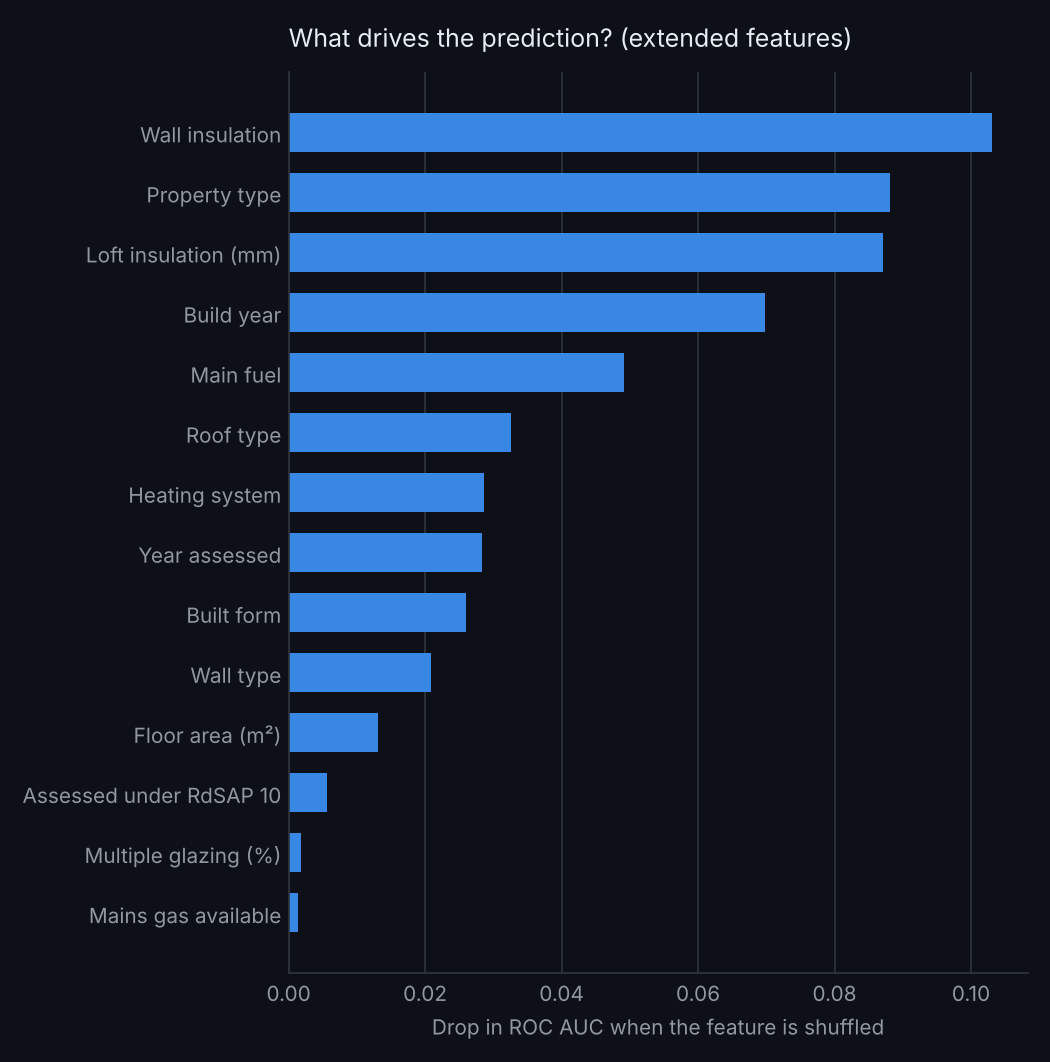
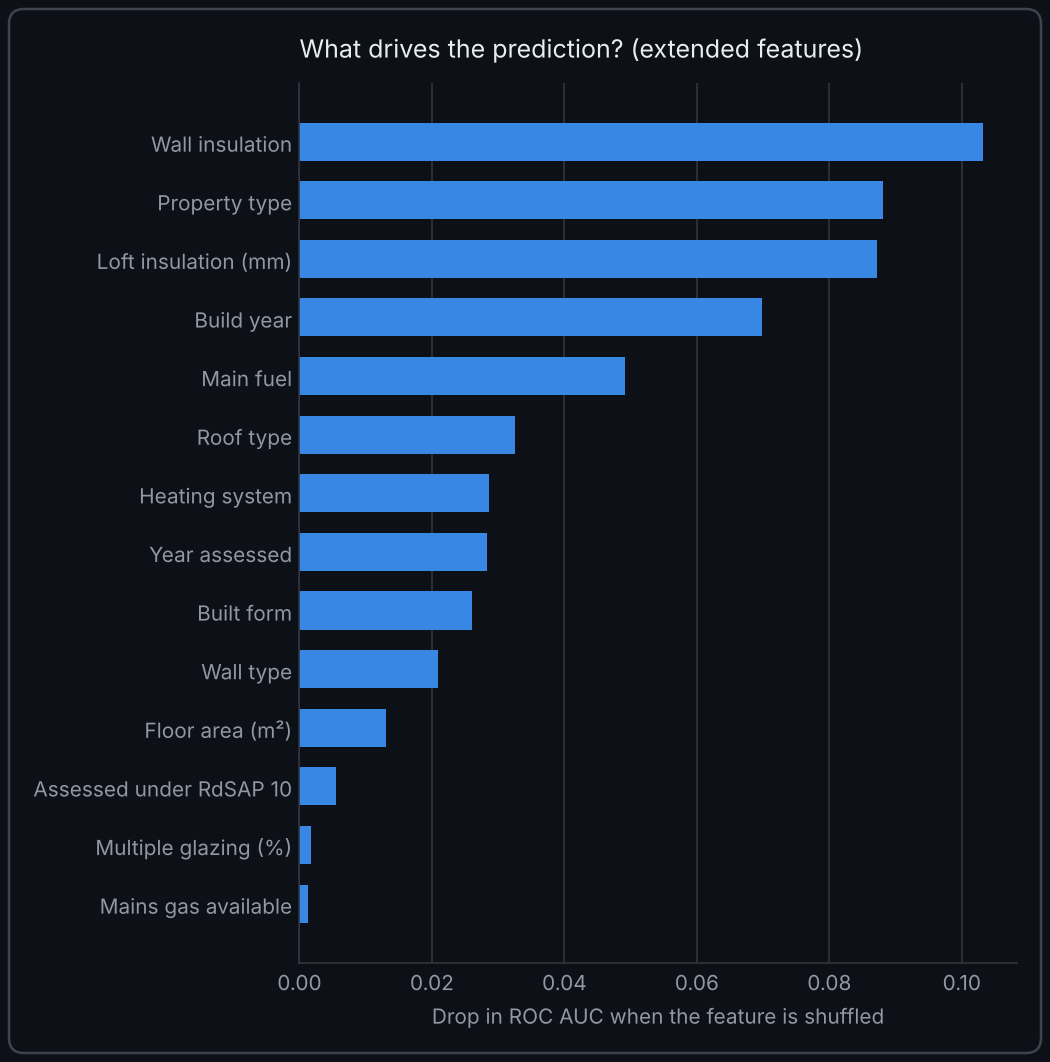
Add borders to charts

diff --git a/src/housing_epc/explain.py b/src/housing_epc/explain.py
@@ -18,6 +18,7 @@ import matplotlib
 matplotlib.use("Agg")
 import matplotlib.pyplot as plt
 import matplotlib.ticker
+from matplotlib.patches import FancyBboxPatch
 import numpy as np
 import pandas as pd
 from sklearn.calibration import calibration_curve
@@ -31,11 +32,11 @@ from .model import RunResult
 # "dark" matches GitHub's dark theme so figures sit seamlessly in the README.
 THEMES = {
     "dark": {"BLUE": "#3987e5", "ORANGE": "#d95926", "INK": "#e6edf3", "INK_2": "#9198a1",
-             "GRID": "#30363d", "SURFACE": "#0d1117"},
+             "GRID": "#30363d", "SURFACE": "#0d1117", "BORDER": "#3d444d"},
     "light": {"BLUE": "#2a78d6", "ORANGE": "#eb6834", "INK": "#0b0b0b", "INK_2": "#52514e",
-              "GRID": "#e4e3df", "SURFACE": "#ffffff"},
+              "GRID": "#e4e3df", "SURFACE": "#ffffff", "BORDER": "#d1d9e0"},
 }
-BLUE = ORANGE = INK = INK_2 = GRID = SURFACE = ""
+BLUE = ORANGE = INK = INK_2 = GRID = SURFACE = BORDER = ""
 
 
 def set_theme(name: str = "dark") -> None:
@@ -83,9 +84,23 @@ def _style(ax, title: str, xlabel: str = "", ylabel: str = ""):
     ax.set_axisbelow(True)
 
 
+def _add_border(fig, pad_px: float = 6, radius_px: float = 10):
+    """Draw a rounded border around the whole figure, like GitHub's own content boxes.
+
+    GitHub strips CSS from READMEs, so the border has to be part of the image.
+    """
+    w, h = fig.get_size_inches() * fig.dpi
+    fig.patches.append(FancyBboxPatch(
+        (pad_px / w, pad_px / h), 1 - 2 * pad_px / w, 1 - 2 * pad_px / h,
+        boxstyle=f"round,pad=0,rounding_size={radius_px / min(w, h)}",
+        transform=fig.transFigure, facecolor="none", edgecolor=BORDER, linewidth=1.2, zorder=10,
+    ))
+
+
 def _save(fig, path: Path):
     path.parent.mkdir(parents=True, exist_ok=True)
-    fig.tight_layout()
+    fig.tight_layout(pad=1.6)
+    _add_border(fig)
     fig.savefig(path, dpi=150, facecolor=SURFACE)
     plt.close(fig)
     print(f"  saved {path.relative_to(config.PROJECT_ROOT) if path.is_relative_to(config.PROJECT_ROOT) else path}")
@@ -102,7 +117,7 @@ def plot_feature_set_comparison(metrics: dict, path: Path):
             rows.append((fs, model_name, m[model_name]["roc_auc"]))
     df = pd.DataFrame(rows, columns=["feature_set", "model", "roc_auc"])
 
-    fig, ax = plt.subplots(figsize=(7, 3.8))
+    fig, ax = plt.subplots(figsize=(7, 3.6))
     sets = list(metrics)
     y = np.arange(len(sets))
     h = 0.36
@@ -117,10 +132,12 @@ def plot_feature_set_comparison(metrics: dict, path: Path):
                     va="center", fontsize=9, color=INK)
     ax.set_yticks(y, [f"{s.capitalize()} features" for s in sets])
     ax.set_xlim(0.5, 1.0)
-    _style(ax, "Test-set ROC AUC by feature set and model", xlabel="ROC AUC (0.5 = random)")
+    _style(ax, "ROC AUC on held-out homes", xlabel="ROC AUC (0.5 = random)")
     handles, labels = ax.get_legend_handles_labels()
+    # Legend gets its own line between the title and the bars
+    ax.set_title(ax.get_title(loc="left"), loc="left", fontsize=12, color=INK, pad=30)
     ax.legend(handles[::-1], labels[::-1], frameon=False, fontsize=9, ncol=2, labelcolor=INK,
-              loc="upper center", bbox_to_anchor=(0.5, -0.25))
+              loc="lower left", bbox_to_anchor=(-0.01, 1.0), borderaxespad=0.2, handlelength=1.2)
     _save(fig, path)
 
 
